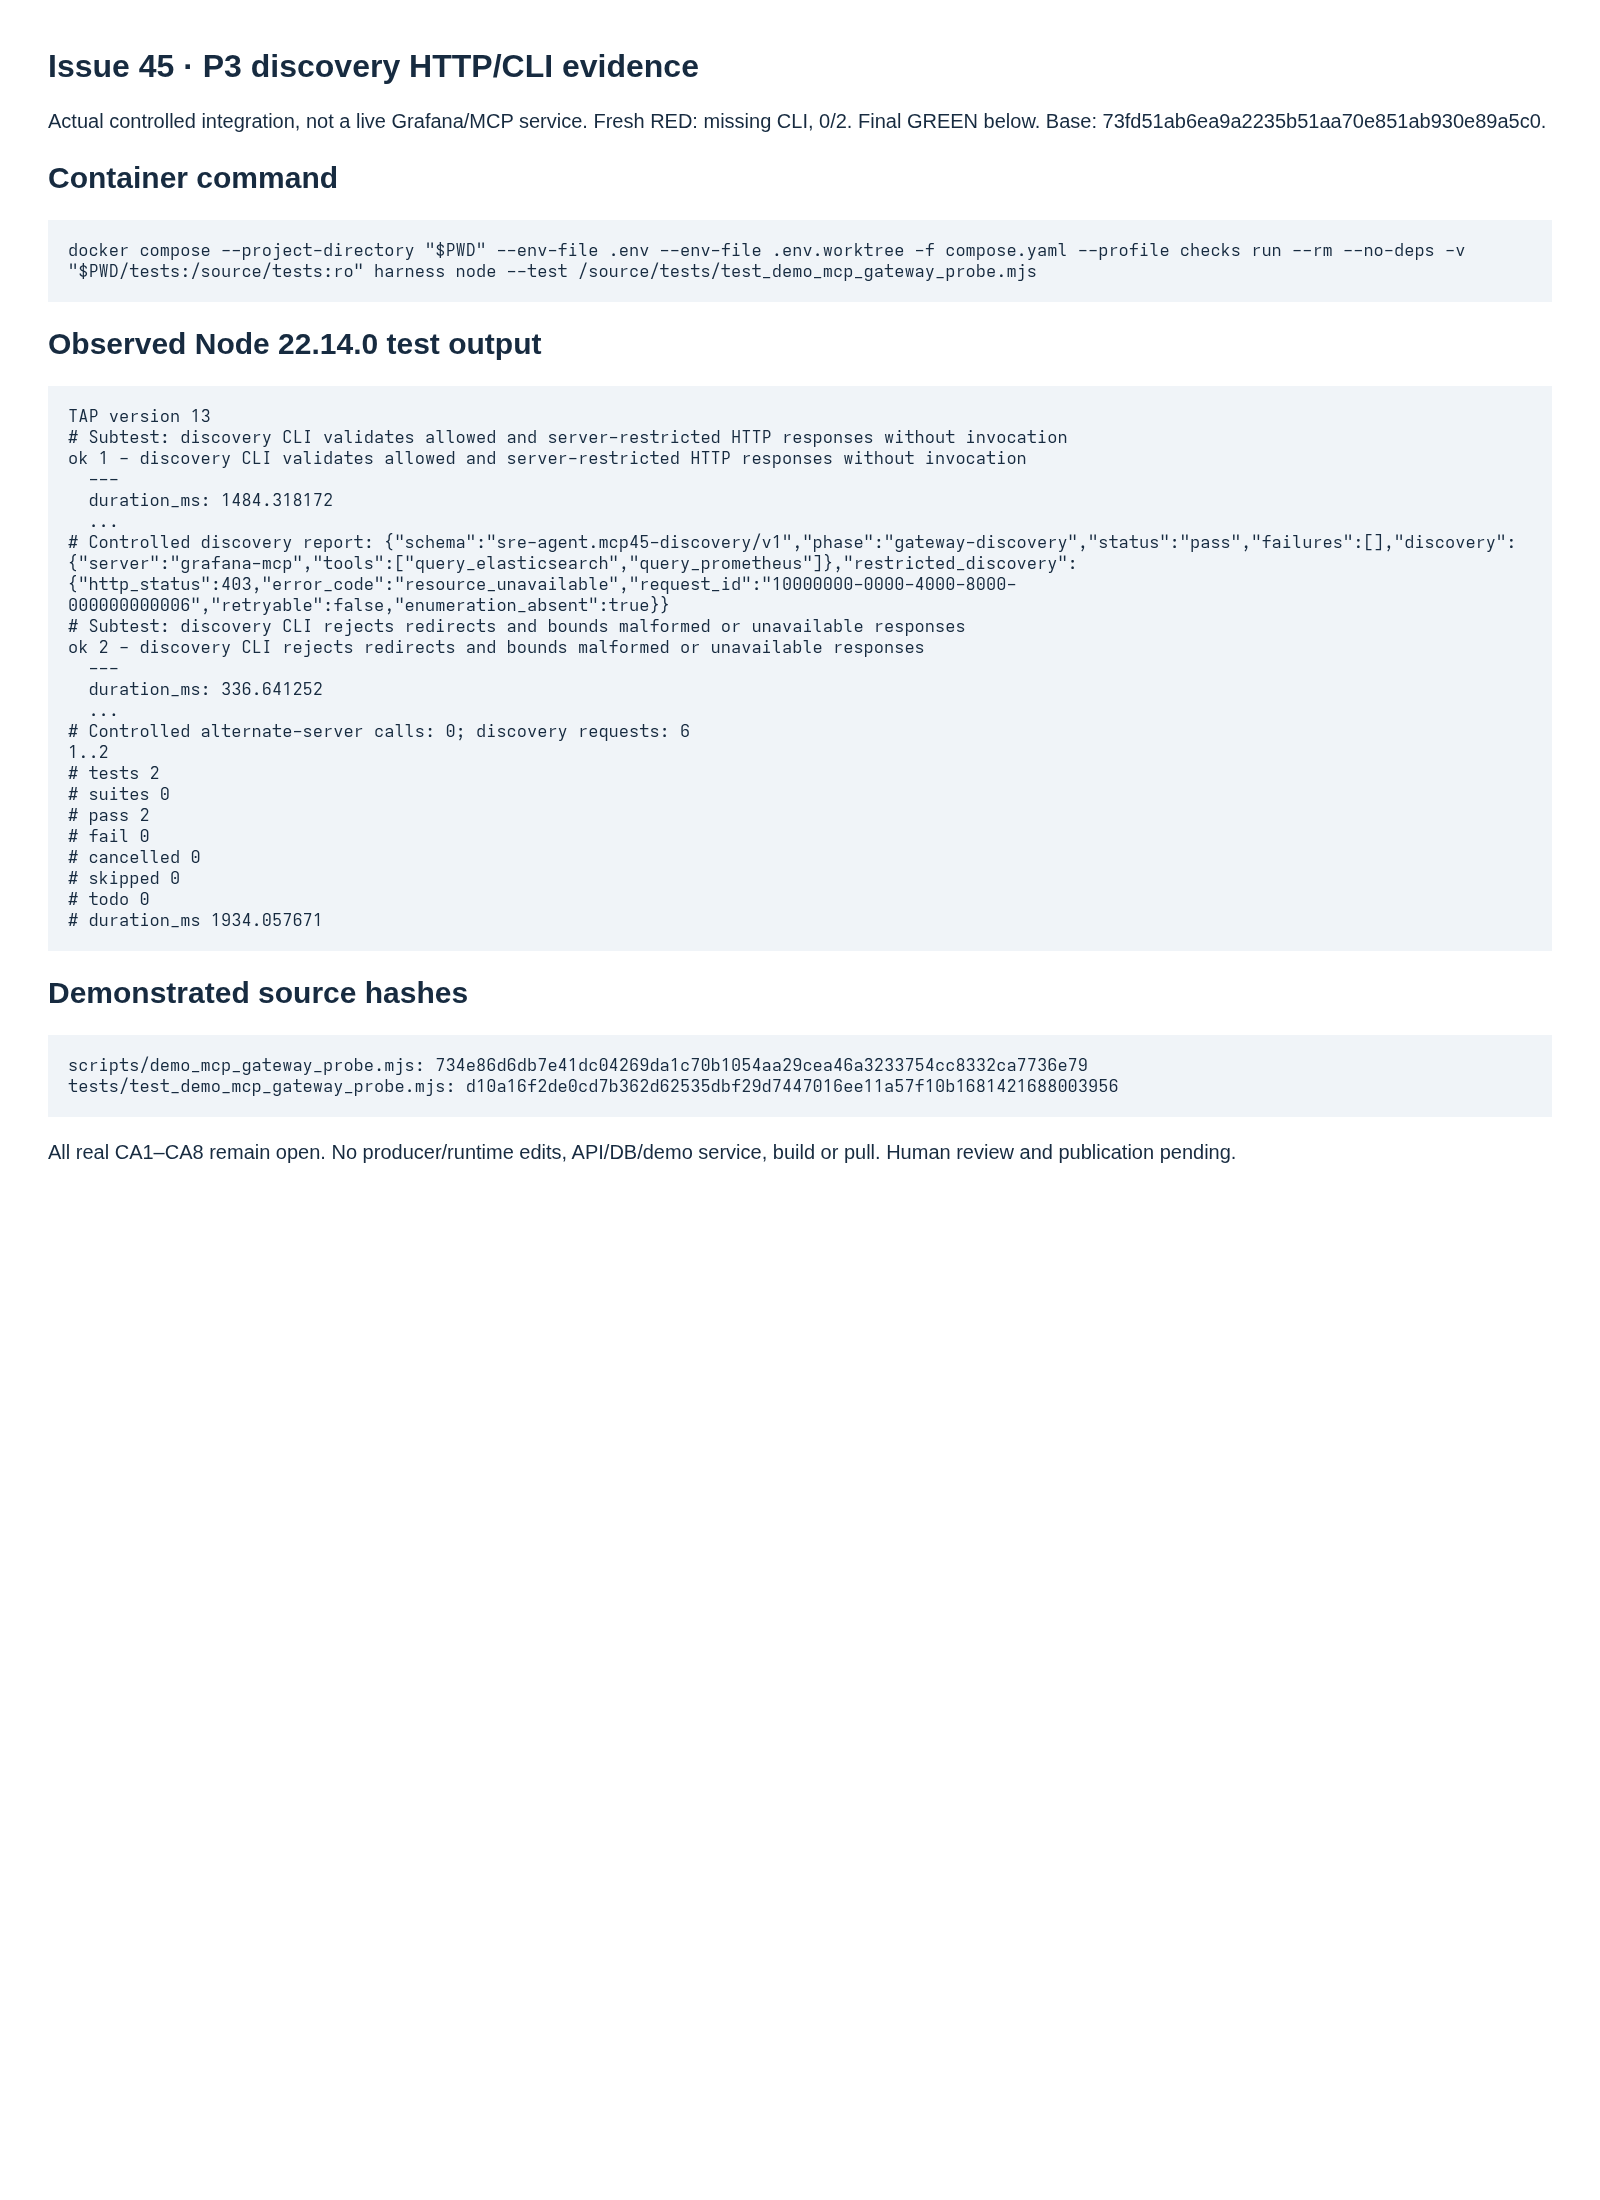
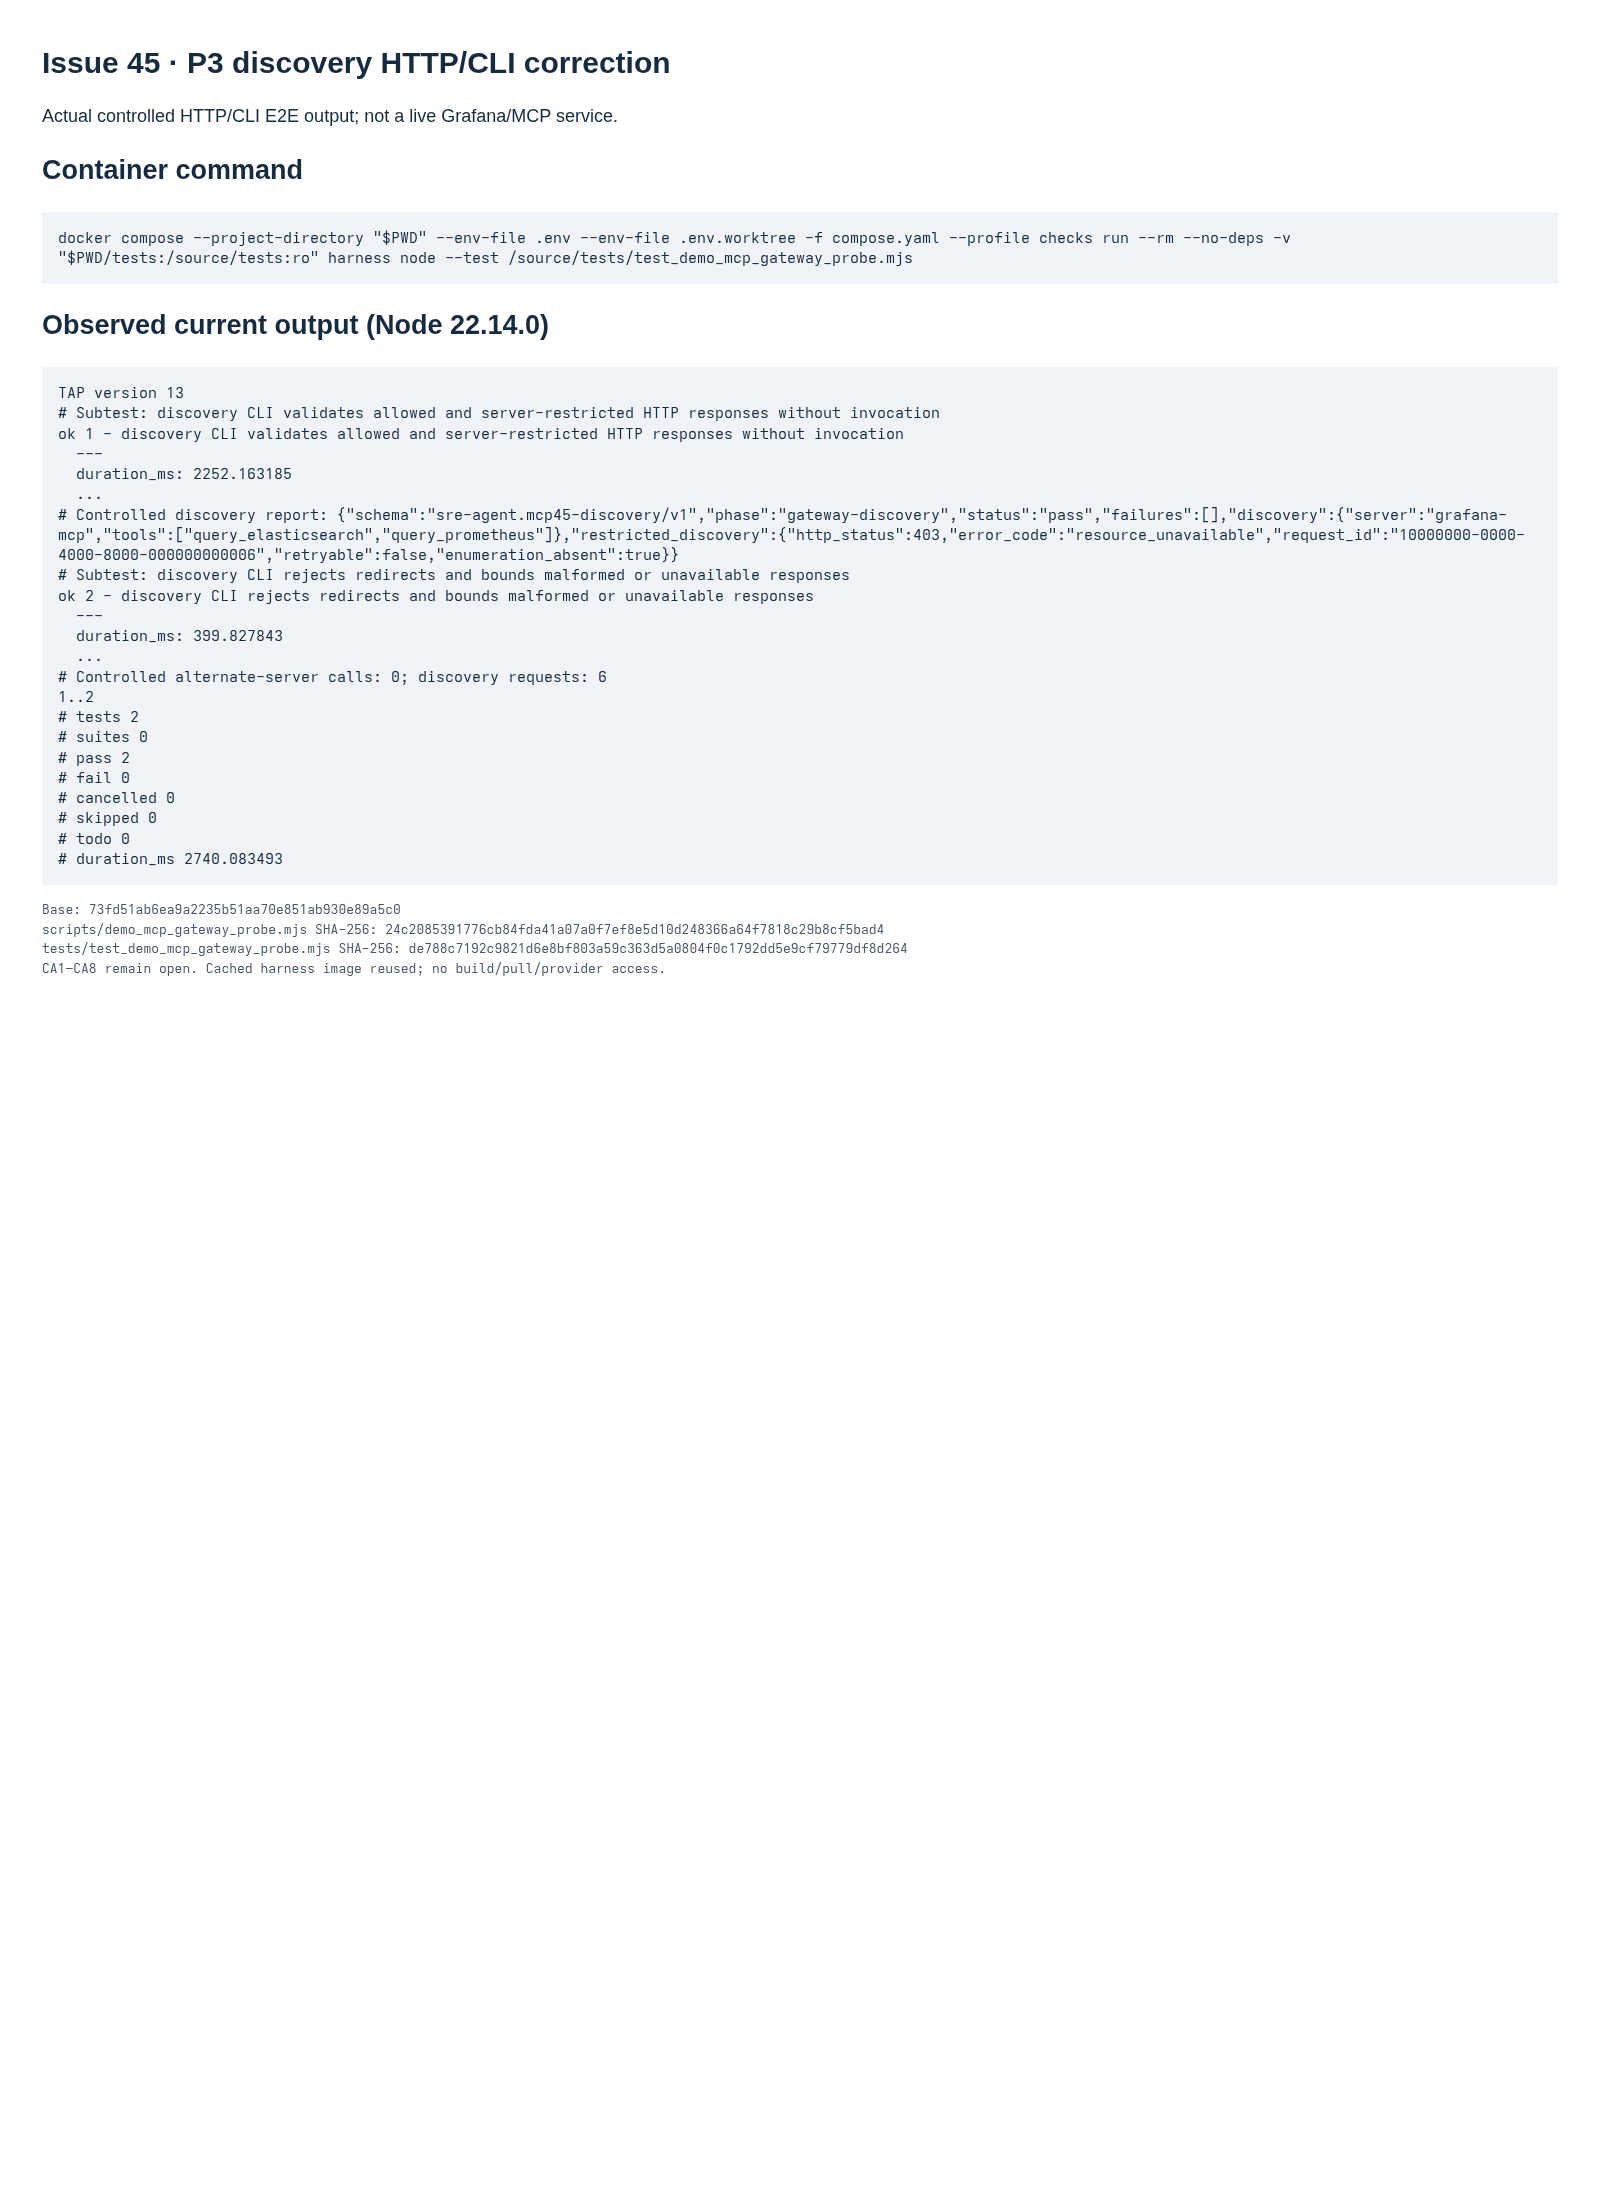
fix(mcp): reject malformed discovery tool entries

diff --git a/docs/evidence/issue-45-pr02/report.md b/docs/evidence/issue-45-pr02/report.md
@@ -2,8 +2,8 @@
 
 **Controlled integration, not live Grafana/MCP acceptance.** The [screenshot](discovery.png)
 shows actual current HTTP/CLI test output and the container command, not a service UI.
-Base: `73fd51ab6ea9a2235b51aa70e851ab930e89a5c0` (PR #424).
-The PR body binds the committed tested SHA; this report has no circular commit reference.
+Base: `73fd51ab6ea9a2235b51aa70e851ab930e89a5c0` (parent PR #424).
+The parent binds the committed tested SHA; this report has no circular commit reference.
 
 ## Reproduce
 
@@ -21,16 +21,18 @@ docker compose --project-directory "$PWD" --env-file .env --env-file .env.worktr
 
 ## Actual results
 
-- Fresh RED: 0/2; the CLI module was absent. GREEN and final check: 2/2, Node v22.14.0.
+- Fresh RED: 1/2 failed; valid IDs plus an extra malformed tool were falsely accepted.
+  Minimal raw-array validation GREEN: 2/2, Node v22.14.0.
 - Allowed discovery returned only the expected server/two tool IDs; restricted discovery
   returned non-enumerating 403, non-retryable, with the matching safe fixture UUID.
-- Only GET discovery requests occurred. Invalid configurations made no request.
+- HTTP cases cover missing/non-string IDs, null and an extra malformed entry; only GETs occurred.
 - Redirect, malformed-body and unavailable cases failed safely; alternate-server calls: 0.
 - Synthetic tokens/private body fields were absent from serialized reports.
-- Two in-container Node syntax checks passed; refactor review retained explicit validators.
-- Initial runner setup rejected unsupported `--no-build` before tests; the command above worked.
+- In-container `node --check` passed for probe and test; refactor retained explicit validators.
+- The exact command above used the cached harness image; no build/pull or provider service ran.
 
-The actual offline Chromium capture uses no external assets and retains the browser sandbox.
+The actual offline Chromium capture uses no external assets, retains the browser sandbox,
+and matches the current test/source SHA-256 values shown in the screenshot.
 All real CA1–CA8 stay open: no invocation, metric/log query, counter reconciliation,
 partial-tool filtering, live boundary inventory or cycle verification is delivered.
 HTTP fixtures are synthetic; output minimization is not a CA6 redaction guarantee.

diff --git a/odd/tasks/issue-45-grafana-mcp-verification.md b/odd/tasks/issue-45-grafana-mcp-verification.md
@@ -173,3 +173,7 @@ Base `73fd51ab6ea9a2235b51aa70e851ab930e89a5c0`, branch `codex/issue-45-02-disco
 
 P3 checks: the exact existing worktree checks harness ran Node E2E from current mounted tests. Initial runner setup rejected unsupported `--no-build` before execution; removing that flag restored the authorized command. No build/pull occurred. [Current controlled evidence](../../docs/evidence/issue-45-pr02/report.md) is separate from historical full-recovery results. All live acceptance tasks remain open; publication and human review remain parent-owned.
 Final P3 checks passed: 2/2 current controlled tests, two Node syntax checks, 18 relative links, five shell blocks parsed only, whitespace/privacy checks and a genuine offline rendered E2E screenshot. Protected original/full recovery and published first-stage hashes/status/HEAD are unchanged. No actual CA completion, hosted CI or human approval is inferred; the tracker mirror remains pending.
+
+## PR #425 review correction checkpoint
+
+- [x] **MCP45-P3-R1 — Validate raw discovery tool entries**: PR #425 (`efb8446` over `73fd51a`); fix [review finding](https://github.com/creep1ng/sre-agent/pull/425#discussion_r4140568933) by validating raw `tools` cardinality and each expected string ID before normalization. Fresh HTTP/CLI scenarios observed RED (malformed extra entry accepted; `0 !== 1`), minimal fix GREEN 2/2, syntax checks passed on Node v22.14.0. Updated [current report](../../docs/evidence/issue-45-pr02/report.md) and exact-source screenshot; current diff is 392 text additions+deletions plus one PNG file, within 400. No CA1–CA8 closes; parent owns mirror/publication. Initial Docker denial was retried with authorized escalation; original recovery roots stayed untouched.
